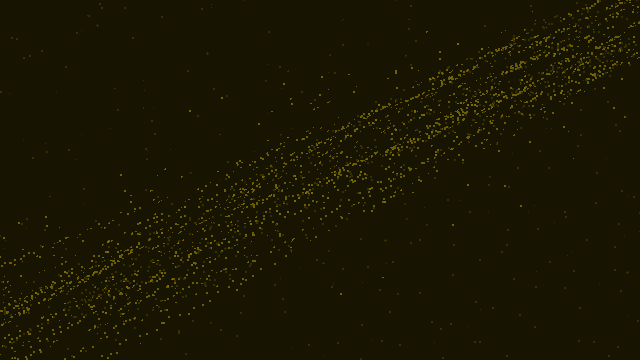
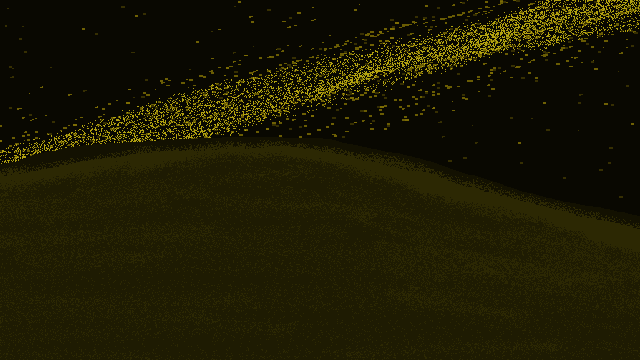
make cherry hsots go up an down + fix atom collision and zindex

diff --git a/vfx/config/EmittersCharacters.cs b/vfx/config/EmittersCharacters.cs
@@ -57,8 +57,8 @@ public static class EmittersCharacters
 			// Cherry Shots: two laser Projectiles, each its own file (_3 small bolt on f3, _7 big on f7).
 			["attack_cherry_shots"] = new GArr
 			{
-				new GDict { ["scene"] = S("res://vfx/character/khalid/attack/cherry_shots/attack_cherry_shots_3.tscn"), ["mode"] = "burst", ["frames"] = new GArr { 3 }, ["pos"] = new Vector2(16, -22) },
-				new GDict { ["scene"] = S("res://vfx/character/khalid/attack/cherry_shots/attack_cherry_shots_7.tscn"), ["mode"] = "burst", ["frames"] = new GArr { 7 }, ["pos"] = new Vector2(16, -22) },
+				new GDict { ["scene"] = S("res://vfx/character/khalid/attack/cherry_shots/attack_cherry_shots_3.tscn"), ["mode"] = "burst", ["frames"] = new GArr { 3 }, ["pos"] = new Vector2(16, -22), ["set"] = new GDict { ["homing"] = 8.0, ["can_fly_up"] = true } },
+				new GDict { ["scene"] = S("res://vfx/character/khalid/attack/cherry_shots/attack_cherry_shots_7.tscn"), ["mode"] = "burst", ["frames"] = new GArr { 7 }, ["pos"] = new Vector2(16, -22), ["set"] = new GDict { ["homing"] = 8.0, ["can_fly_up"] = true } },
 			},
 			// Spear: 3-hit combo — one file per hit (thrust, thrust, big finisher), named by frame.
 			["attack_spear"] = new GArr

diff --git a/README.md b/README.md
@@ -1675,7 +1675,10 @@ lunge/armor. A **null** `hit` (empty `segments`) means "the effect scene carries
   director world-parents them at the muzzle and reads facing from `scale.x` so they fly
   off. Khalid's **Cherry Shots** fires two — a small bolt on frame 3, a big one on frame 7,
   each its own per-frame file (`attack_cherry_shots_3/_7.tscn`), a red laser `Line2D` bolt
-  with its own damage from the tuning array.
+  with its own damage from the tuning array. Both **home on the closest enemy ahead**: the
+  emitter rows `set` `homing = 8` + `can_fly_up` (overriding the scenes' `homing = 0`), so each
+  shot acquires the nearest target via `Projectile.NearestTargetAhead` and steers into it,
+  including one a level up (`can_fly_up` skips the `vertical_reach` gate + allows upward steering).
 - A character with **no effect scene** for an attack deals no damage (Khalid, for now);
   a character with an **empty specials pool** (`Actions.get_action` returns null) simply can't
   special — the button no-ops.
